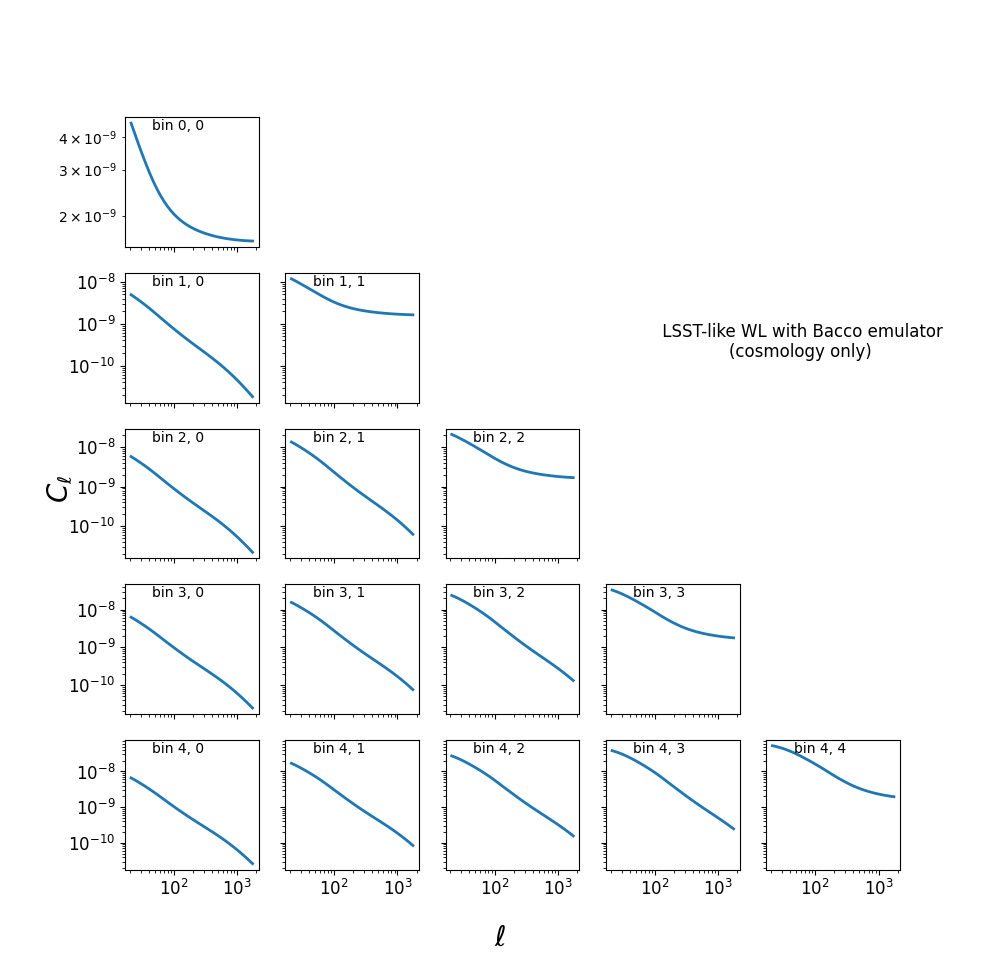
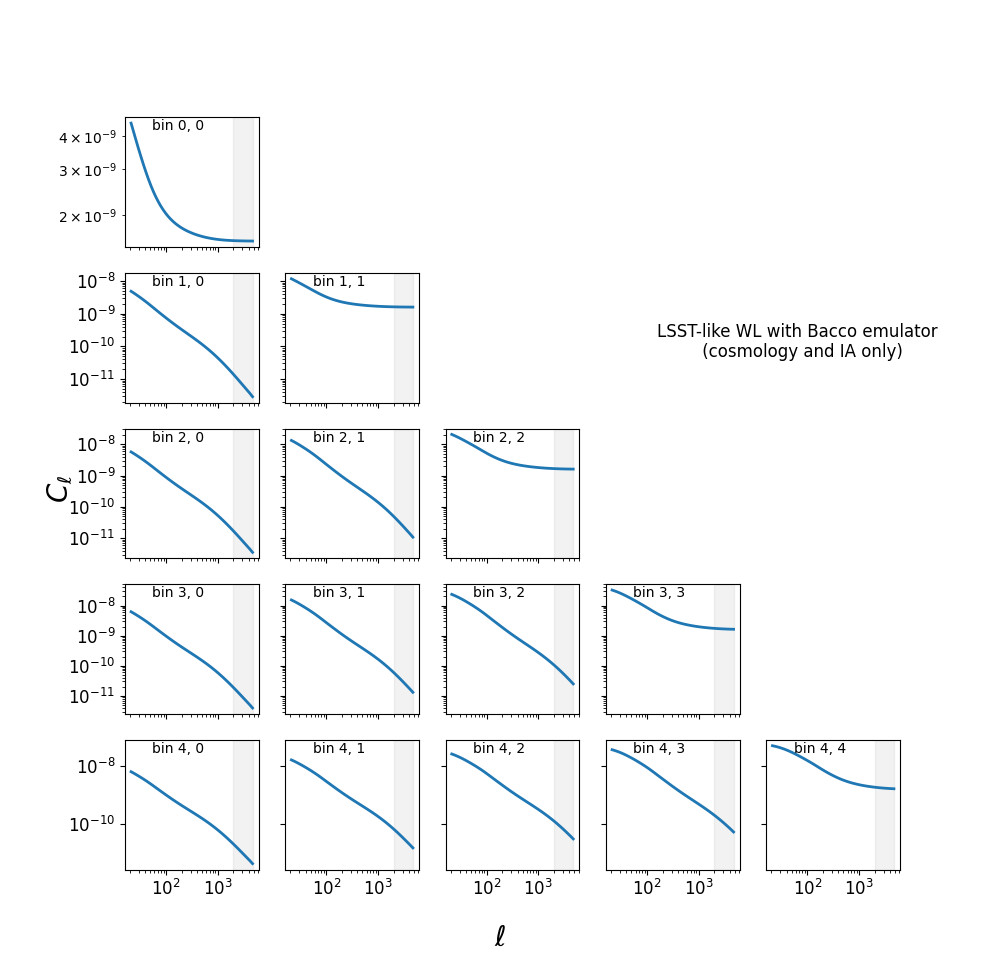
add corner plot and chain description

diff --git a/docs/tutorials/quickstart.rst b/docs/tutorials/quickstart.rst
@@ -6,7 +6,7 @@ Here we show one simple use of MGL explaining the basic usage of ``test_run.py``
 (Add briedf explanation of what the code does/timeline of computed quantities)
 
 Let us start considering only weak gravitational lensing as dark matter tracer, using `BACCO-emulator <https://baccoemu.readthedocs.io/en/latest/>`_ .
-These settings need to be written in the file ``config.yaml`` as follows:
+The choice of emulators and models need to be written in the file ``config.yaml`` as follows:
 
 .. code-block:: yaml
 
@@ -31,11 +31,11 @@ These settings need to be written in the file ``config.yaml`` as follows:
     photoz_err_model: 0
     params: ./params_analysis_test.yaml
 
-Please refer to the complete file to see all options and sections not listed here. For this example we choose to vary cosmological parameters only, 
-with fixed intrinsic alignment parameters, no baryonic feedback and no photo-z error on the sources and lenses distribution
+Please refer to the complete file to see all options and sections not listed here. For this example we choose to vary cosmological 
+and intrinsic alignment parameters, considering no baryonic feedback and no photo-z error on the sources and lenses distribution.
 
-The fiducial values to build the mock data have to be written in ``params_data.yaml`` while ``params_bacco_test.yaml`` contains the parameter prior ranges 
-and the shape of the prior. Here is an example for the parameter :math:`\Omega_m`, 
+The fiducial values to build the mock data has to be written in ``params_data.yaml``, while ``params_bacco_test.yaml`` contains 
+the parameter prior ranges and the shape of the prior. Here is an example for the parameter :math:`\Omega_m`:
 
 set the fiducial value as ``Omega_m: 0.31``, 
 
@@ -46,14 +46,32 @@ and the prior type and range as
     Omega_m:
         type: 'U'  # uniform prior
         p0: 0.31   # value if parameter is fixed
-        p1: 0.2    # prior limit
-        p2: 0.4    # prior limit 
+        p1: 0.2    # prior lower limit
+        p2: 0.4    # prior upper limit 
   
 
 We are now ready to run the two scripts. ``test_run.py`` will use the function ``test()`` which constructs a dictionary of test parameters, 
 checking that all parameters we specified are inside the allowed ranges of the emulators.
 It then computes the log-likelihood using these parameters and measures the time taken for this computation. 
-The results, including the log-likelihood value and the time taken, are saved to a text file in ``/chains``.
+The results, including the log-likelihood value and the time taken, are saved to a text file in ``/chains``. This is how a chain file will lok like:
+
+.. code-block:: python
+
+    #         ##############################################################
+    #         # Cosmology Pipeline Configuration
+    #         #------------------------------------------------------------
+    #         # model choiches as observables, emulator, scale cuts, ... are listed here
+    #         # 
+    #         # Data model settings
+    #         # list of fiducial parameters
+    #         # 
+    #         # Theory model settings
+    #         # list of paramneter priors
+    #
+    #         ##############################################################
+    #              columns with sampled parameters, log_w, log_l and their values
+    #
+    #         # log_Z = value;  chain_time = value in s (--> value in hh:mm:ss)
 
 In addition, one could also easily calculate and plot the :math:`C_\ell`. For this simple example it would look like:
 
@@ -61,9 +79,14 @@ In addition, one could also easily calculate and plot the :math:`C_\ell`. For th
    :width: 80%
    :align: center
 
+where the grey bands represent the (constant) scale cuts in :math:`\ell`.
 
-The test code ``test_mcmc_run.py`` will instead build a mock catalogue and then run a full MCMC chain analysis using 
+The test code ``test_mcmc_run.py`` will instead build a mock catalogue and then run a full MCMC chain analysis with 
 `nautilus sampler <https://nautilus-sampler.readthedocs.io/en/latest/index.html>`_ using 
-parameters and priors from the input files. The posterior distribution can be plotted with ``potting_scripts/plot_posterior.py``.
-The result is a corner plot as the following one: **Add plot**
+parameters, priors and models specified in the input files. The full corner plot with all posterior distributions 
+can be plotted with ``potting_scripts/plot_posterior.py``. The result is a corner plot as the following one: 
+
+.. image:: post_example_Bacco_cosmoIA_constlmax.png
+   :width: 80%
+   :align: center
 
